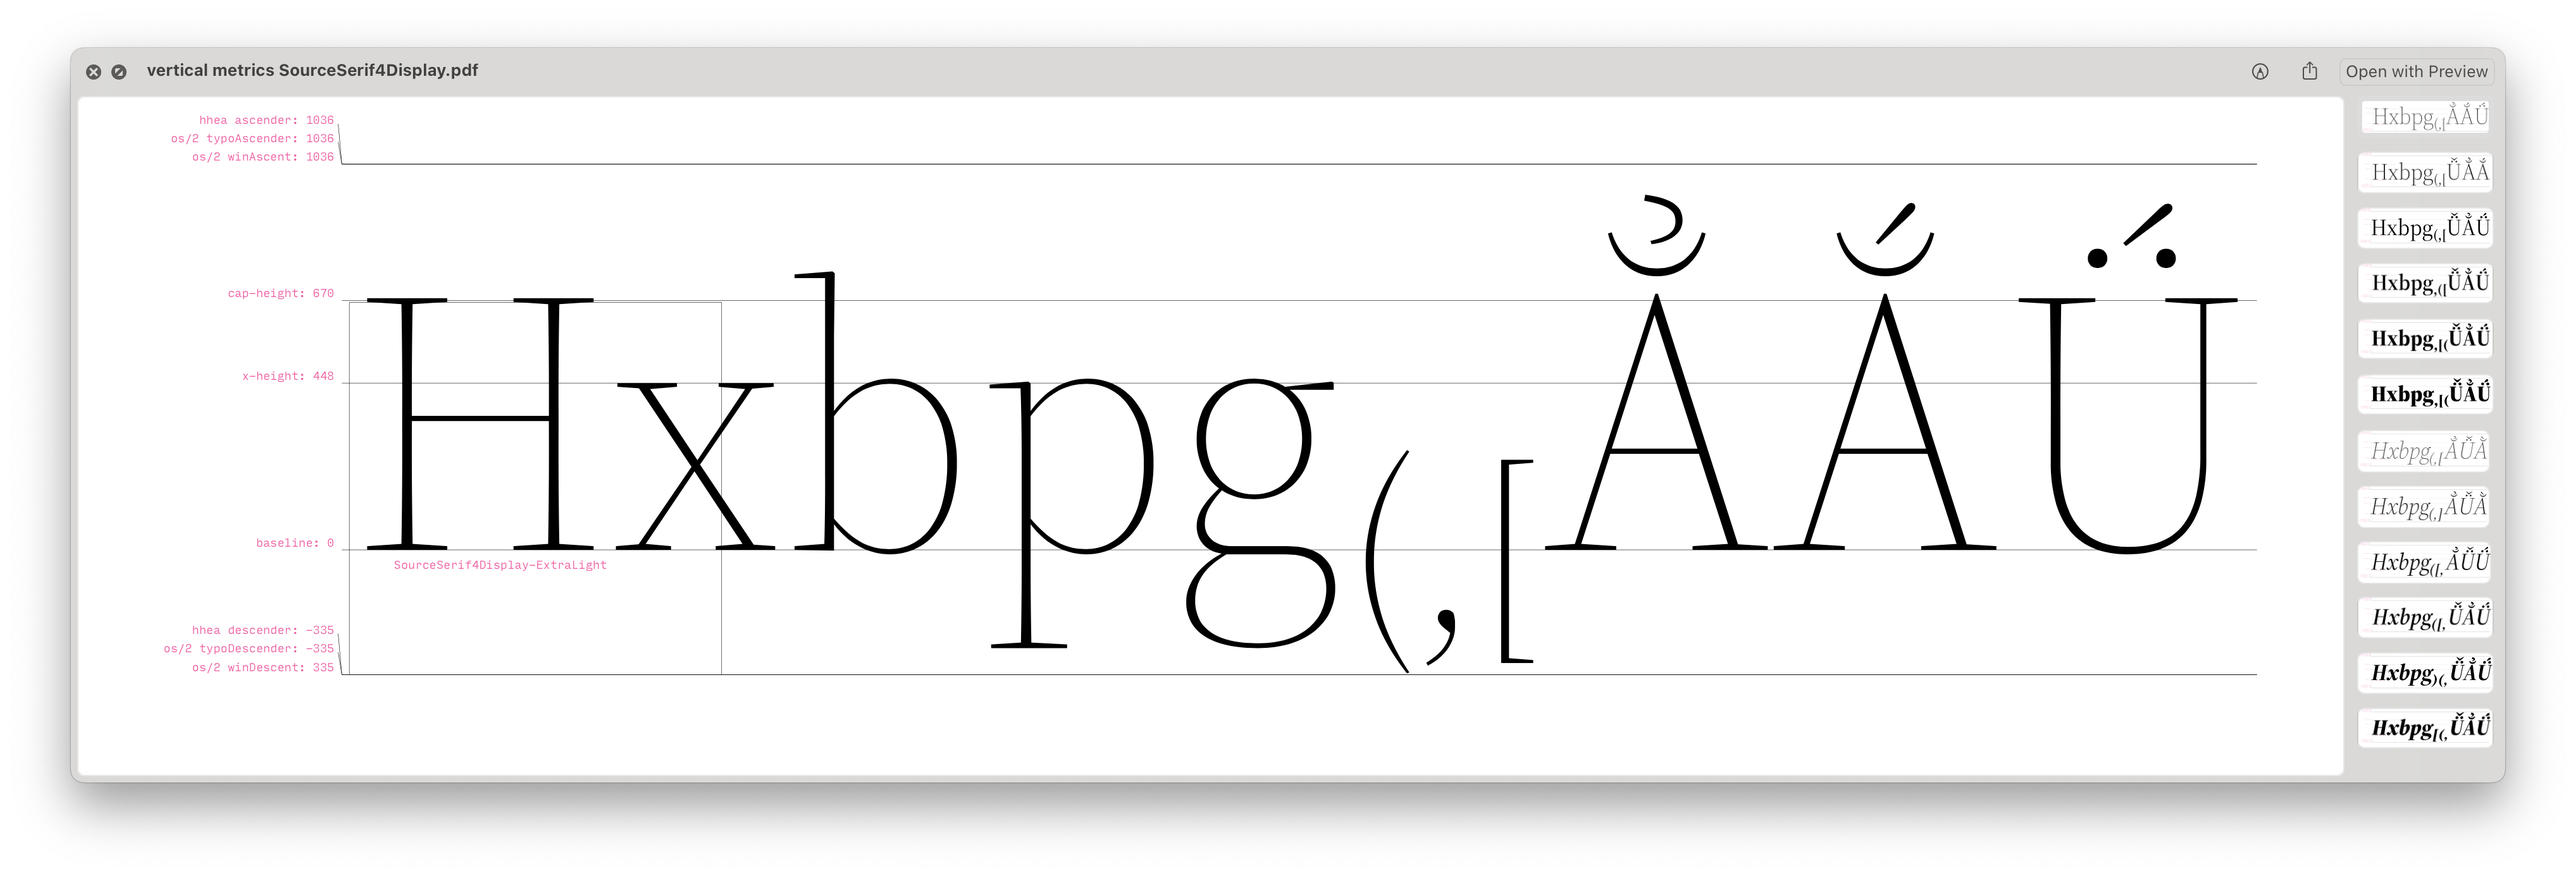
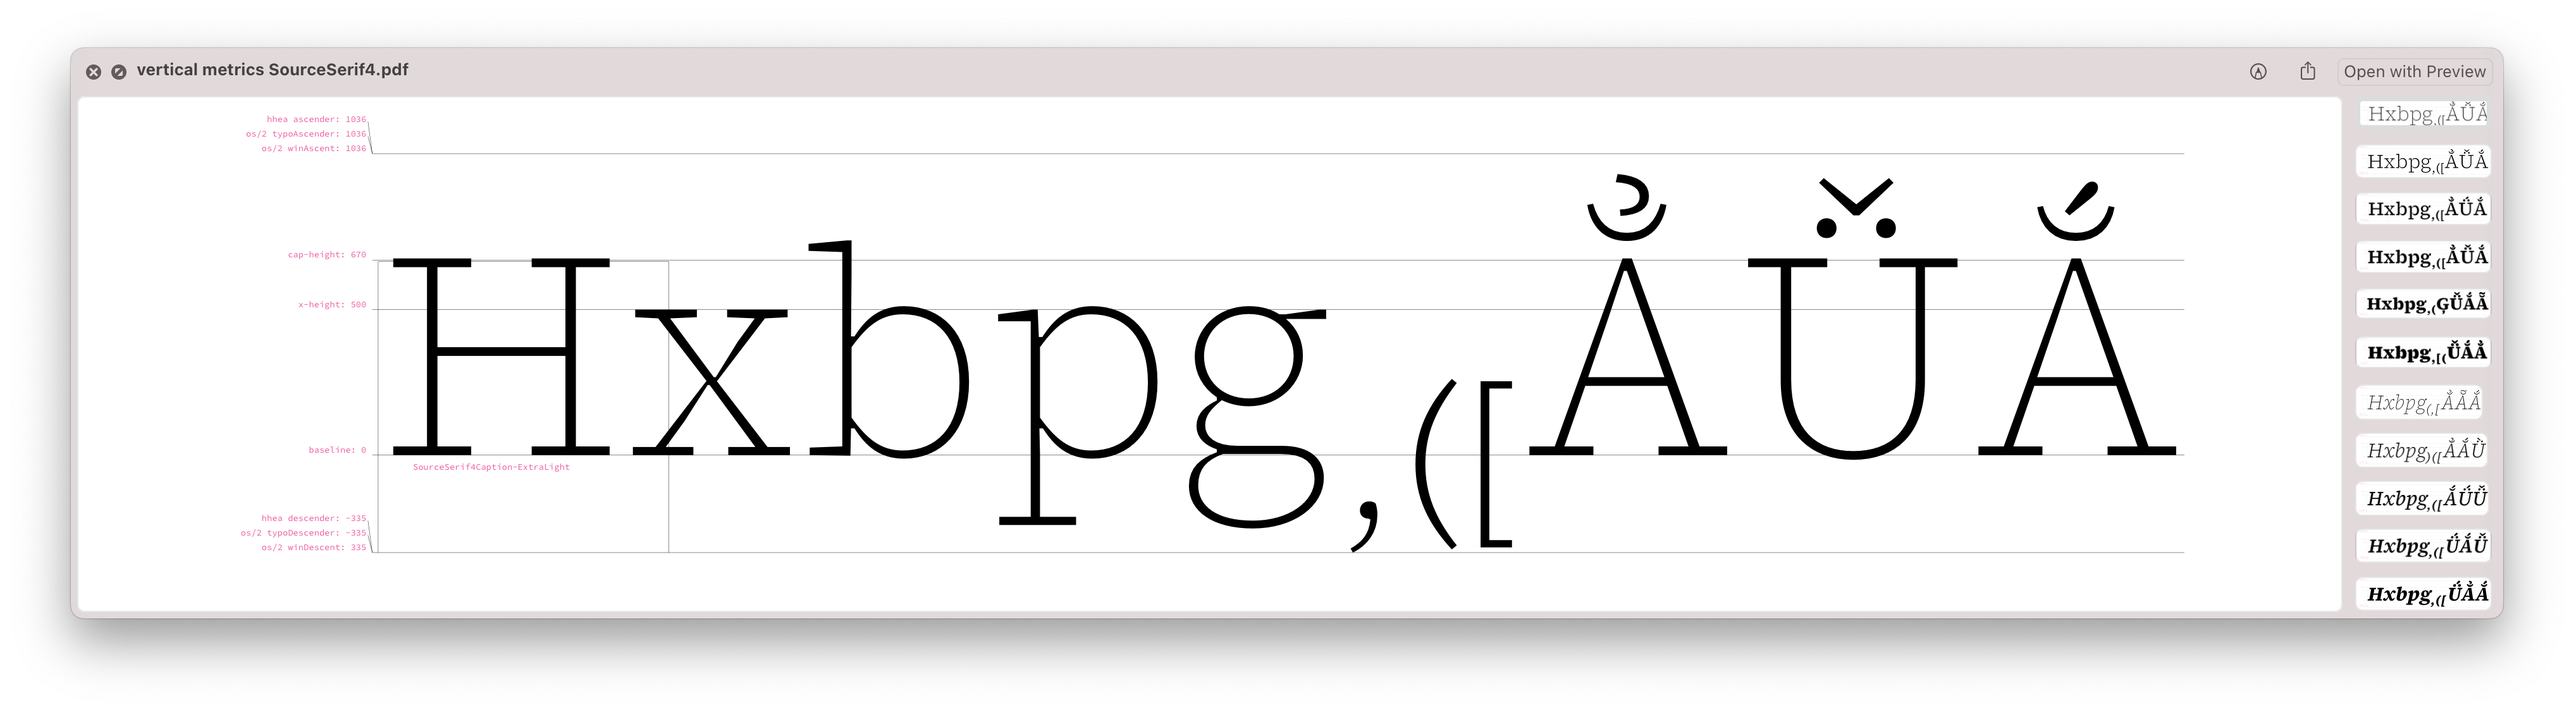
verticalMetricsProof – fixes
- do not crash if no fonts are found
- do not crop picked glyphs
- make page width and -height dependent on font

diff --git a/verticalMetricsProof.py b/verticalMetricsProof.py
@@ -40,12 +40,16 @@ MARGIN = 20
 MARGIN_L = 6 * MARGIN
 
 
-def get_glyph_names(fi):
-    # Some standard glyphs defining basic metrics,
-    # as well as tallest and lowest glyphs.
-    glyph_names = [fi.char_map.get(ord(char)) for char in fi.sample_string]
-    glyph_names += fi.g_ymin
-    glyph_names += fi.g_ymax
+def get_glyph_names(font_info):
+    '''
+    Collect some standard glyphs defining basic metrics,
+    as well as tallest and lowest glyphs.
+    '''
+    glyph_names = [
+        font_info.char_map.get(ord(char)) for
+        char in font_info.sample_string]
+    glyph_names += font_info.g_ymin
+    glyph_names += font_info.g_ymax
     return glyph_names
 
 
@@ -159,6 +163,11 @@ class FontInfo(object):
             g_name, w_record) in hmtx_table.metrics.items()
         }
 
+    def get_bounds(self, glyph_name):
+        pen = BoundsPen(self.glyph_set)
+        self.glyph_set[glyph_name].draw(pen)
+        return pen.bounds
+
     def parse_cmap(self):
         cmap_table = self.ttf['cmap']
         self.char_map = cmap_table.getBestCmap()
@@ -172,15 +181,42 @@ class FontInfo(object):
         self.cap_H_width = self.advance_widths.get(cap_H_gname)
 
 
-def draw_metrics_page(f_info, page_width=5000, normalize_upm=False):
+def get_string_bounds(f_info, glyph_names):
+    '''
+    Calculate the width and height of the string (including swashy letters,
+    which may extend to the right further than their advance width, and incl.
+    glyphs which may exceed any pre-set vertical metrics).
+    '''
+    insertion_point = 0
+    x_extent = []
+    # vertical metrics may exceed any outline bounds:
+    y_extent = [f_info.winDescent, f_info.winAscent]
+
+    for gn in glyph_names:
+        g_width = f_info.advance_widths.get(gn, 0)
+        x_min, y_min, x_max, y_max = f_info.get_bounds(gn)
+        x_extent.append(insertion_point + g_width)
+        x_extent.append(insertion_point + x_max)
+        insertion_point += g_width
+        y_extent.append(y_min)
+        y_extent.append(y_max)
+
+    return min(x_extent), min(y_extent), max(x_extent), max(y_extent)
+
+
+def draw_metrics_page(f_info, normalize_upm=False):
     upm = f_info.upm
     glyph_names = get_glyph_names(f_info)
     scale_factor = PT_SIZE / upm
     x_offset = MARGIN_L / scale_factor
-    font_height = f_info.winAscent + f_info.winDescent
-    page_height = font_height * 1.4 * scale_factor
+
+    x_min, y_min, x_max, y_max = get_string_bounds(f_info, glyph_names)
+    line_height = sum([abs(y_min), y_max])
+    baseline = abs(y_min) + 2 * MARGIN / scale_factor
+
+    page_width = x_max * PT_SIZE / f_info.upm + MARGIN_L + MARGIN
+    page_height = line_height * scale_factor + 4 * MARGIN
     db.newPage(page_width, page_height)
-    baseline = db.height() / 3 / scale_factor
 
     line_labels = (
         ('os/2 winAscent', f_info.winAscent),
@@ -212,17 +248,12 @@ def draw_metrics_page(f_info, page_width=5000, normalize_upm=False):
                 draw_glyph(glyph)
                 db.translate(glyph.width, 0)
 
-        string_width = sum([
-            # fallback value 0 is for whenever a glyph is not supported
-            f_info.advance_widths.get(glyph_name, 0)
-            for glyph_name in glyph_names])
-
         with db.savedState():
             # no need to draw overlapping lines twice
             for y_value in set([value for _, value in line_labels]):
                 db.stroke(0)
                 db.strokeWidth(1)
-                db.line((-4 / scale_factor, y_value), (string_width, y_value))
+                db.line((-4 / scale_factor, y_value), (x_max, y_value))
 
         with db.savedState():
             line_height = 10 / scale_factor
@@ -282,10 +313,6 @@ def draw_metrics_page(f_info, page_width=5000, normalize_upm=False):
 
 def process_font_path(font_path, args):
     fi = FontInfo(font_path, args)
-    glyph_names = get_glyph_names(fi)
-    page_width = sum(
-        [fi.advance_widths.get(gn, 0) * PT_SIZE / fi.upm for gn in glyph_names]
-    ) + MARGIN_L + MARGIN
 
     print('{:20s} {:>3d} 0 {:>3d} {:>3d} {:>3d}'.format(
         fi.styleName,
@@ -298,7 +325,7 @@ def process_font_path(font_path, args):
         print(f'{"":20s} lo {args.num_extremes}: {" ".join(fi.g_ymin)}')
         print(f'{"":20s} hi {args.num_extremes}: {" ".join(fi.g_ymax)}')
 
-    draw_metrics_page(fi, page_width, args.normalize_upm)
+    draw_metrics_page(fi, args.normalize_upm)
 
 
 def finish_drawing(doc_name):
@@ -321,15 +348,18 @@ if __name__ == '__main__':
         args = get_options()
 
     font_paths = get_font_paths(args.input_dir)
-    sorted_font_paths = sort_fonts(font_paths)
+    if font_paths:
+        sorted_font_paths = sort_fonts(font_paths)
 
-    for font_path in sorted_font_paths:
-        process_font_path(font_path, args)
+        for font_path in sorted_font_paths:
+            process_font_path(font_path, args)
 
-    if args.output_file_name:
-        doc_name = args.output_file_name
+        if args.output_file_name:
+            doc_name = args.output_file_name
+        else:
+            doc_name = get_name_overlap([p.name for p in sorted_font_paths])
+
+        if not IN_UI:
+            finish_drawing(doc_name)
     else:
-        doc_name = get_name_overlap([p.name for p in sorted_font_paths])
-
-    if not IN_UI:
-        finish_drawing(doc_name)
+        print('no fonts found')
